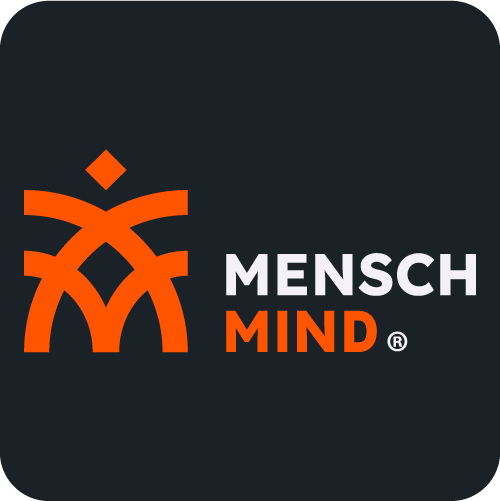
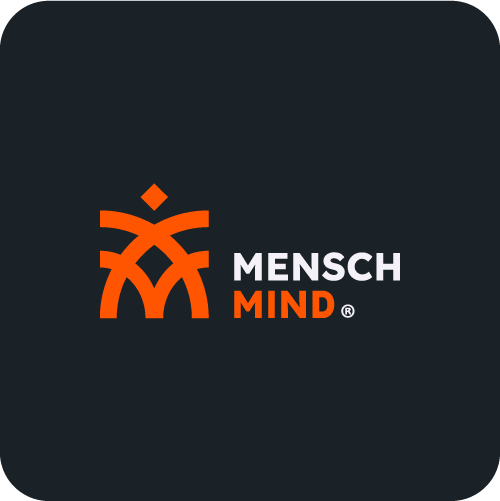
Ajuste de OG do Instalar e do Mind

Changed region(s): [[0.03, 0.2994, 0.42, 0.7186], [0.45, 0.479, 0.96, 0.7186]]

diff --git a/src/app/instalar/layout.tsx b/src/app/instalar/layout.tsx
@@ -5,6 +5,26 @@ import "../globals.css";
 export const metadata: Metadata = {
   title: "|| Mensch Instalar",
   description: "Apoio para profissionais! Materiais selecionados para instaladores, eletricistas e técnicos em refrigeração.",
+
+  openGraph: {
+    title: '|| Mensch Instalar',
+    description: 'Apoio para profissionais! Materiais selecionados para instaladores, eletricistas e técnicos em refrigeração.',
+    url: 'https://projeto-grupo-mensch.vercel.app/instalar', //alterar
+    type: 'website',
+    images: [{
+      url: "https://projeto-grupo-mensch.vercel.app/og/instalarOG.png", //alterar
+      width: 1200,
+      height: 430,
+      alt: 'Mensch Instalar',
+    },],
+    locale: 'pt_BR',
+    siteName: 'Mensch Instalar',
+  },
+  robots: {
+    index: true,
+    follow: true,
+  }
+
 };
 
 export default function RootLayout({
